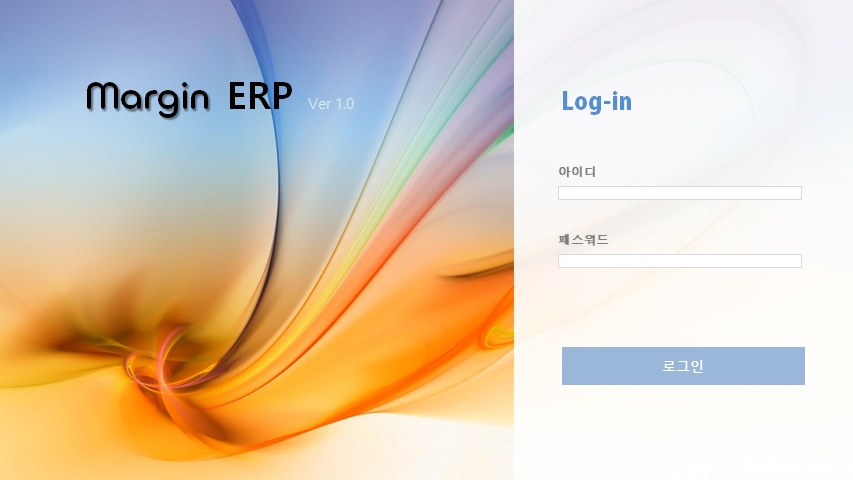
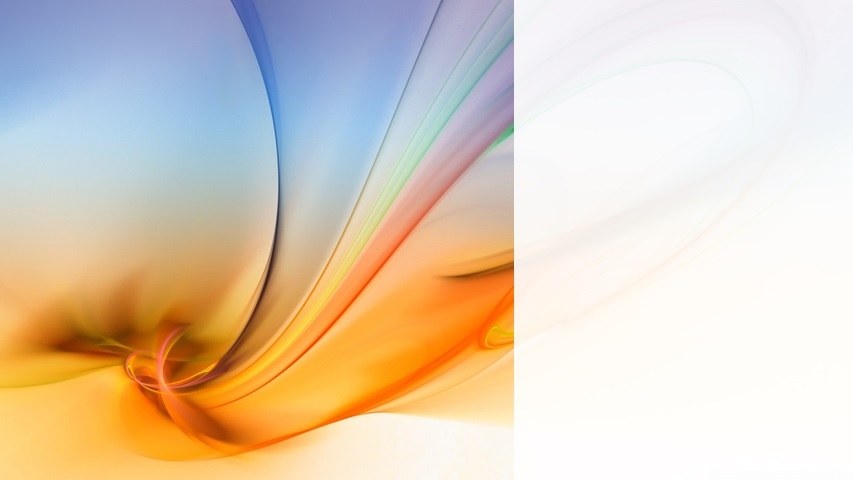
solve component problem
* 로그인 화면 및 메인프레임의 전체적 구조 변경

-> 컴퍼넌트 관련 실행오류 해결
- JLabel 안보이는 현상
- JButton, JTextField로 마우스를 옮겨야 보이는 현상

* 재고관리기능을 실질적으로 실행할 work panel 의 그래픽구조 설계

diff --git a/erp/gui/TestA.java b/erp/gui/TestA.java
@@ -1,0 +1,42 @@
+package erp.gui;
+
+import java.awt.EventQueue;
+
+import javax.swing.JFrame;
+import javax.swing.JPanel;
+
+@SuppressWarnings("serial")
+public class TestA extends JFrame {
+
+
+	/**
+	 * Launch the application.
+	 */
+	public static void main(String[] args) {
+		EventQueue.invokeLater(new Runnable() {
+			public void run() {
+				try {
+					TestA frame = new TestA();
+					frame.setVisible(true);
+				} catch (Exception e) {
+					e.printStackTrace();
+				}
+			}
+		});
+	}
+
+	/**
+	 * Create the frame.
+	 */
+	public TestA() {
+		setDefaultCloseOperation(JFrame.EXIT_ON_CLOSE);
+		setBounds(100, 100, 1280, 720);
+		setLocationRelativeTo(null);
+		JPanel workPanel = new WorkPanel();
+		setContentPane(workPanel);
+		
+		
+		setVisible(true);
+	}
+
+}
